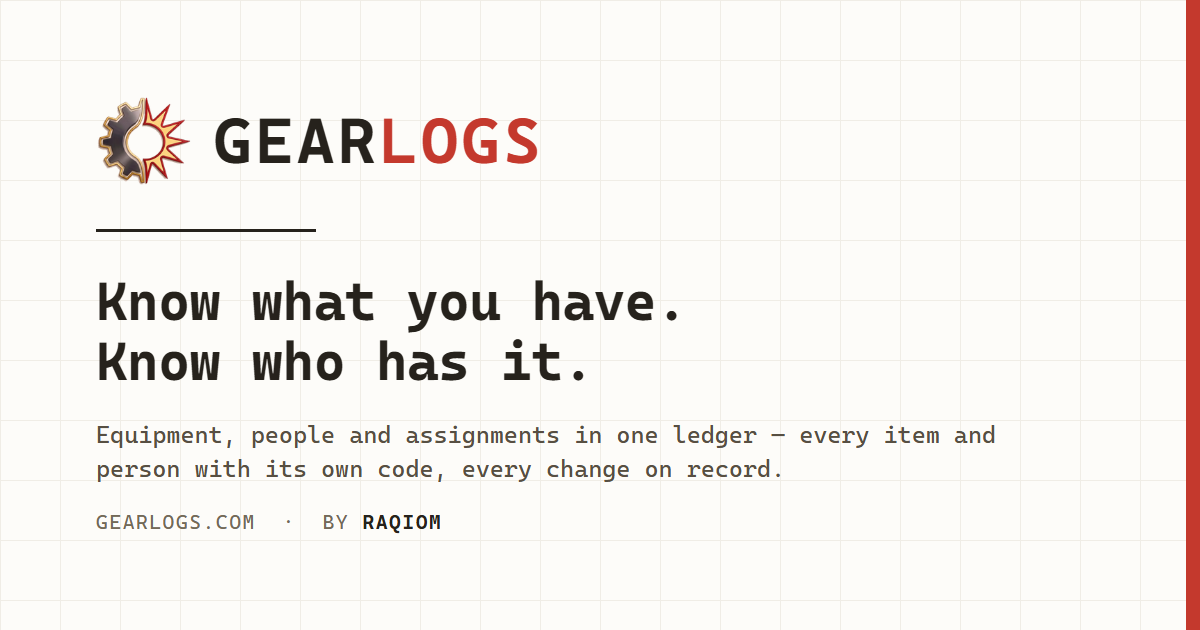
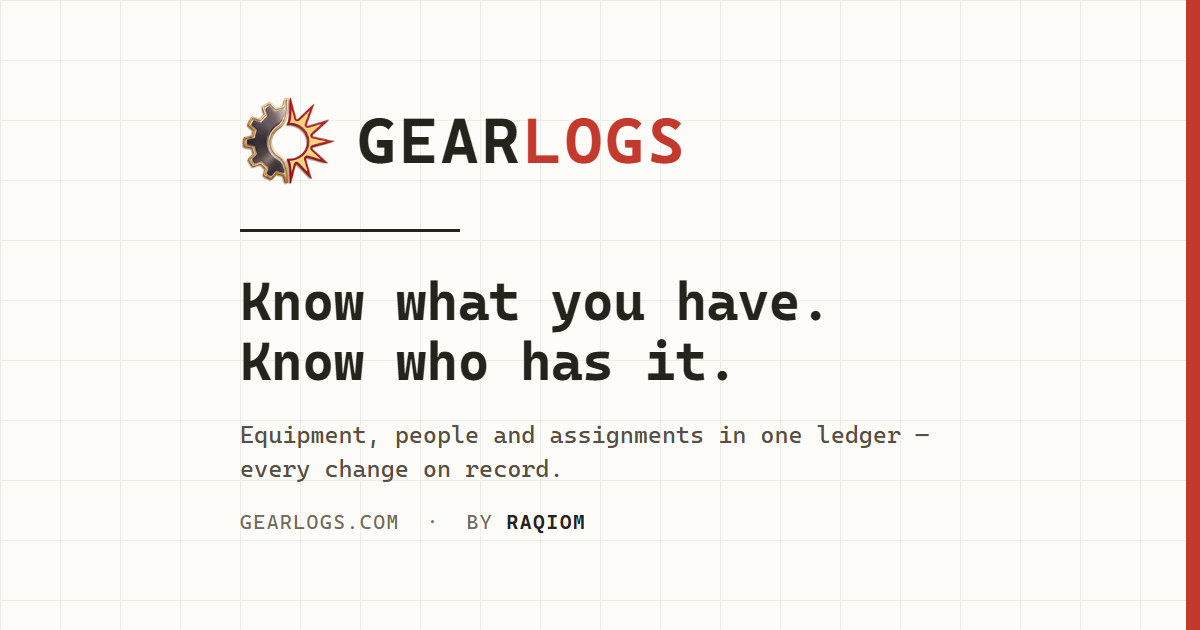
fix(site): gate fixes — twitter:card on every page, the last fade rule gone, the card's content centred for square crops
ui-ux gate on #44 (GO-WITH-FIXES): /faq, /pay, /guides and /changelog had no twitter:card at
all (X would fall back to a square thumbnail cropping the wordmark) — added with their titles;
the reduced-motion block still carried a ::view-transition-* rule — removed; the card's content
block now sits in the middle 60 % (left-aligned inside) so a centre-square crop keeps the
wordmark and tagline; the sub-line shortened to two lines.

Claude-Session: https://claude.ai/code/session_01UuJvrsWccbWnuyUmEBS649

diff --git a/public/pay.html b/public/pay.html
@@ -10,6 +10,8 @@
   <meta property="og:image:width" content="1200">
   <meta property="og:image:height" content="630">
   <meta property="og:image:alt" content="GearLogs — Know what you have. Know who has it.">
+  <meta name="twitter:card" content="summary_large_image">
+  <meta name="twitter:title" content="Secure Checkout — GearLogs">
   <link rel="icon" type="image/svg+xml" href="/favicon.svg">
   <link rel="stylesheet" href="/styles/main.css">
   <!-- Paddle.js v2 — the ONLY external script on this page. It reads the

diff --git a/public/changelog.html b/public/changelog.html
@@ -14,6 +14,8 @@
   <meta property="og:image:width" content="1200">
   <meta property="og:image:height" content="630">
   <meta property="og:image:alt" content="GearLogs — Know what you have. Know who has it.">
+  <meta name="twitter:card" content="summary_large_image">
+  <meta name="twitter:title" content="Changelog — GearLogs">
   <link rel="icon" type="image/svg+xml" href="/favicon.svg">
   <link rel="stylesheet" href="/styles/main.css">
 </head>

diff --git a/public/styles/main.css b/public/styles/main.css
@@ -732,7 +732,6 @@ html.anim-ready .cap-card.reveal.is-visible:hover { transform: translateY(-2px);
   .hero .doc-ref { width: auto !important; border-right: none; }
   .hero .hero-divider { transform: none !important; }
   .logo-mark { animation: none !important; }
-  ::view-transition-group(*), ::view-transition-old(*), ::view-transition-new(*) { animation: none !important; }
 }
 
 /* ── Activity ledger — live product vignette (Stage C) ── */

diff --git a/public/guides.html b/public/guides.html
@@ -14,6 +14,8 @@
   <meta property="og:image:width" content="1200">
   <meta property="og:image:height" content="630">
   <meta property="og:image:alt" content="GearLogs — Know what you have. Know who has it.">
+  <meta name="twitter:card" content="summary_large_image">
+  <meta name="twitter:title" content="Guides — GearLogs">
   <link rel="icon" type="image/svg+xml" href="/favicon.svg">
   <link rel="stylesheet" href="/styles/main.css">
 </head>

diff --git a/public/faq.html b/public/faq.html
@@ -14,6 +14,8 @@
   <meta property="og:image:width" content="1200">
   <meta property="og:image:height" content="630">
   <meta property="og:image:alt" content="GearLogs — Know what you have. Know who has it.">
+  <meta name="twitter:card" content="summary_large_image">
+  <meta name="twitter:title" content="FAQ — GearLogs">
   <link rel="icon" type="image/svg+xml" href="/favicon.svg">
   <link rel="stylesheet" href="/styles/main.css">
 </head>
